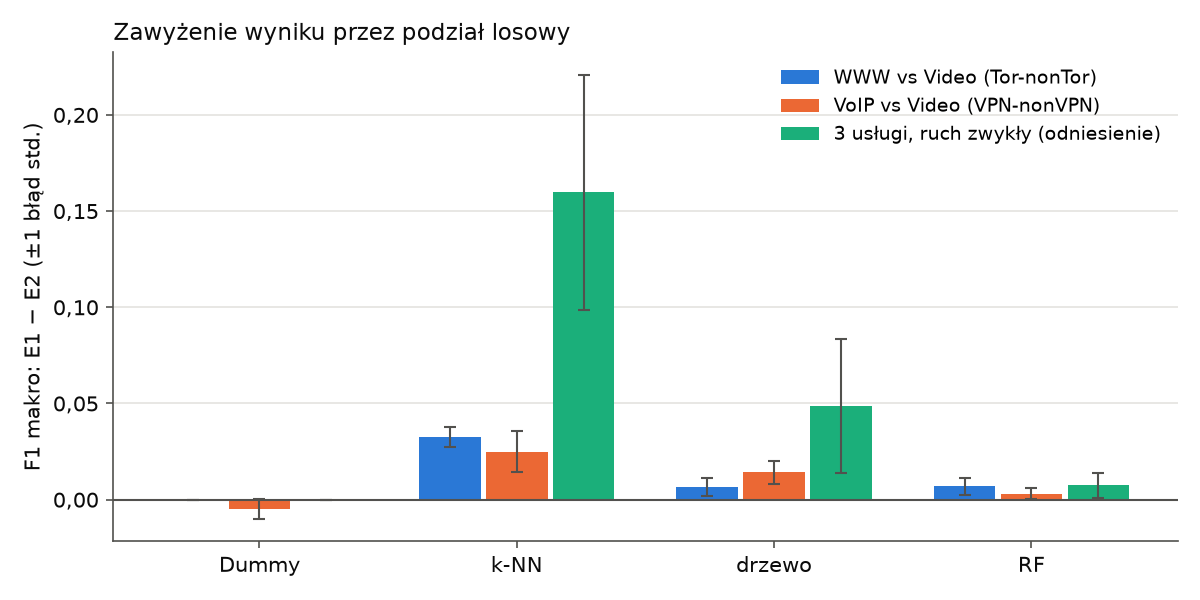
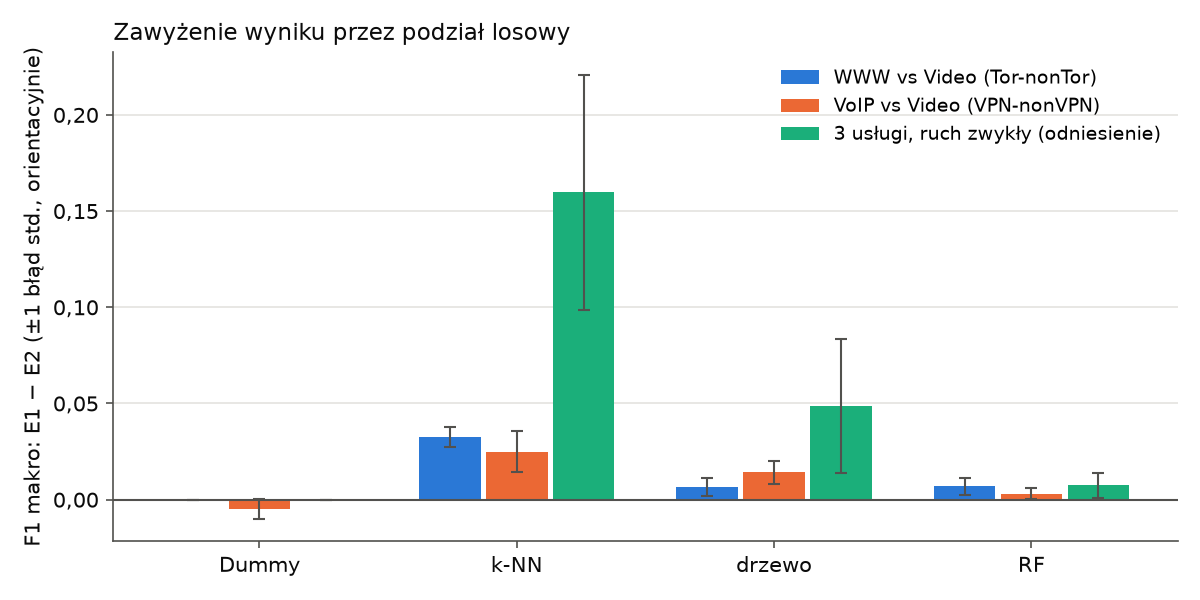
Etap 03b: poprawki po /gate (wspólne task_frame, orientacyjne słupki błędu, doprecyzowanie P2)

Changed region(s): [[0.0, 0.09, 0.0308, 0.72], [0.0, 0.75, 0.0308, 0.84], [0.0, 0.87, 0.0308, 0.9]]

diff --git a/src/make_figures_03b.py b/src/make_figures_03b.py
@@ -2,8 +2,10 @@
 
     python src/make_figures_03b.py
 
-Czyta tylko gotowe wyniki eksperymentów e1e2_*, e2_gap15_*, e2_ippair_*;
-nic nie trenuje. Zapisuje reports/results/03b_tabela.md, 03b_folds.csv
+Czyta gotowe wyniki eksperymentów e1e2_*, e2_gap15_*, e2_ippair_*; nic nie
+trenuje. Sekcja o efekcie kampanii potrzebuje lokalnych predictions.parquet
+(poza gitem) i flows.parquet, więc całość odtwarza się na maszynie, która
+liczyła eksperymenty. Zapisuje reports/results/03b_tabela.md, 03b_folds.csv
 i rysunki 08–11 w reports/figures/.
 """
 import json
@@ -20,6 +22,7 @@ from matplotlib.ticker import FuncFormatter  # noqa: E402
 
 from experiments import EXPERIMENTS, TASKS, Experiment  # noqa: E402
 from features import load_flows  # noqa: E402
+from train import task_frame  # noqa: E402
 
 ROOT = Path(__file__).resolve().parents[1]
 RESULTS = ROOT / "reports" / "results"
@@ -93,7 +96,11 @@ def summary_table(folds: pd.DataFrame) -> pd.DataFrame:
 
 
 def e1_minus_e2(table: pd.DataFrame) -> pd.DataFrame:
-    """Zawyżenie wyniku przez podział losowy: różnica średnich i jej błąd standardowy."""
+    """Zawyżenie wyniku przez podział losowy: różnica średnich i orientacyjny błąd std.
+
+    Błąd liczony jak dla niezależnych prób; foldy nie są niezależne (wspólny trening)
+    ani sparowane między E1 i E2, więc to tylko skala rozrzutu, nie test istotności.
+    """
     wide = table.pivot(index=["task", "model"], columns="variant",
                        values=["f1_mean", "f1_std", "n_folds"])
     gap = wide[("f1_mean", E1)] - wide[("f1_mean", E2)]
@@ -126,23 +133,15 @@ def campaign_markdown(recall: pd.DataFrame) -> str:
     return "\n".join(lines + [""])
 
 
-def task_population(flows: pd.DataFrame, task: str) -> pd.DataFrame:
-    """Przepływy zadania w kolejności wierszy prepare() (zadanie bez osobnego testu)."""
-    spec = TASKS[task]
-    if spec.test is not None:
-        raise ValueError(f"Zadanie {task} ma osobną populację testową")
-    mask = flows["service"].isin(spec.classes)
-    for col, values in spec.train.items():
-        mask &= flows[col].isin(values)
-    return flows[mask].reset_index(drop=True)
-
-
 def load_campaign_recall(results: Path, flows: pd.DataFrame) -> pd.DataFrame:
+    """Wymaga lokalnych predictions.parquet (poza gitem) i flows.parquet (Release)."""
     task = "uslugi3_plain"
     predictions = pd.read_parquet(results / f"e1e2_{task}" / "predictions.parquet")
-    population = task_population(flows, task)
-    if not (population["service"].to_numpy()[predictions["row"]]
-            == predictions["y_true"].to_numpy()).all():
+    population, _, _ = task_frame(flows, TASKS[task])
+    at_rows = population.iloc[predictions["row"]]
+    # zgodność usług i sesji wiersz po wierszu: przetasowanie w obrębie klasy też wyjdzie
+    if not ((at_rows["service"].to_numpy() == predictions["y_true"].to_numpy()).all()
+            and (at_rows["session"].to_numpy() == predictions["session"].to_numpy()).all()):
         raise ValueError("Wiersze predykcji nie pasują do populacji zadania; "
                          "flows.parquet zmienił się od przebiegu?")
     return video_recall_by_campaign(predictions, population)
@@ -233,7 +232,7 @@ def gap_figure(gaps: pd.DataFrame) -> plt.Figure:
                label=TASK_LABELS[task], error_kw={"ecolor": INK_MUTED, "lw": 1, "capsize": 3})
     ax.axhline(0, color=INK_MUTED, linewidth=1)
     ax.set_xticks(range(len(MODEL_ORDER)), [MODEL_LABELS[m] for m in MODEL_ORDER])
-    ax.set_ylabel("F1 makro: E1 − E2 (±1 błąd std.)", color=INK)
+    ax.set_ylabel("F1 makro: E1 − E2 (±1 błąd std., orientacyjnie)", color=INK)
     _style_axes(ax)
     ax.legend(frameon=False, fontsize=9)
     ax.set_title("Zawyżenie wyniku przez podział losowy", loc="left", fontsize=11, color=INK)

diff --git a/src/train.py b/src/train.py
@@ -60,21 +60,27 @@ def group_key(flows: pd.DataFrame, group_by: str, gap_min: float) -> pd.Series:
     return flows["session"]
 
 
-def prepare(flows: pd.DataFrame, task: Task, features: list[str], gap_min: float,
-            group_by: str = "session") -> Prepared:
-    """Wybiera populację zadania; kolumna session dostaje grupy podziału."""
-    flows = flows.assign(session=group_key(flows, group_by, gap_min))
+def task_frame(flows: pd.DataFrame, task: Task) -> tuple[pd.DataFrame, np.ndarray, np.ndarray]:
+    """Populacja zadania w kolejności wierszy Prepared (row w predykcjach) i maski trening/test."""
     in_classes = flows["service"].isin(task.classes)
     train = in_classes & _matches(flows, task.train)
     test = in_classes & _matches(flows, task.test or task.train)
-    df = flows[train | test].reset_index(drop=True)
+    keep = train | test
+    df = flows[keep].reset_index(drop=True)
     if df.empty:
         raise ValueError(f"Zadanie {task.name}: filtr nie wybrał żadnego przepływu")
+    return df, train[keep].to_numpy(), test[keep].to_numpy()
+
+
+def prepare(flows: pd.DataFrame, task: Task, features: list[str], gap_min: float,
+            group_by: str = "session") -> Prepared:
+    """Wybiera populację zadania; kolumna session dostaje grupy podziału."""
+    df, train_mask, test_mask = task_frame(
+        flows.assign(session=group_key(flows, group_by, gap_min)), task)
     return Prepared(
         X=df[features], y=df["service"], groups=df["session"],
         strata=df[list(task.stratify_by)].astype(str).agg("|".join, axis=1),
-        train_mask=train[train | test].to_numpy(), test_mask=test[train | test].to_numpy(),
-        classes=task.classes,
+        train_mask=train_mask, test_mask=test_mask, classes=task.classes,
     )
 
 
@@ -136,7 +142,7 @@ def _git_state() -> dict[str, Any]:
                                check=True).stdout.strip() != ""
     except (OSError, subprocess.CalledProcessError) as exc:
         return {"commit": None, "dirty": None, "git_error": str(exc)}
-    return {"commit": sha, "dirty": dirty}
+    return {"commit": sha, "dirty": dirty, "dirty_excludes": "reports/results"}
 
 
 def run_info(exp: Experiment, data_path: Path, flows: pd.DataFrame) -> dict[str, Any]:

diff --git a/docs/decyzje.md b/docs/decyzje.md
@@ -162,7 +162,7 @@ Wartości to F1 makro, średnia z foldów.
 
 ## 2026-10-22: E1/E2, odpowiedź na P2 (etap 03b)
 
-Wyniki: `reports/results/03b_tabela.md` (F1 makro per fold, F1 per klasa, accuracy, czasy), `reports/results/e1e2_*`, `e2_gap15_*`, `e2_ippair_*`, rysunki `reports/figures/08–11`. Przebieg z commitu `8a5d4b1`, odtworzenie: `python src/train.py --experiment <nazwa>`, potem `python src/make_figures_03b.py`. Dwa przebiegi dały identyczne wyniki poza czasami.
+Wyniki: `reports/results/03b_tabela.md` (F1 makro per fold, F1 per klasa, accuracy, czasy), `reports/results/e1e2_*`, `e2_gap15_*`, `e2_ippair_*`, rysunki `reports/figures/08–11`. Przebieg z commitu `8a5d4b1`, odtworzenie: `python src/train.py --experiment <nazwa>`, potem `python src/make_figures_03b.py`. Dwa przebiegi dały identyczne wyniki poza czasami. Sekcja o efekcie kampanii w `03b_tabela.md` wymaga lokalnych `predictions.parquet` (poza gitem), więc odtwarza się ją na komputerze stacjonarnym. Słupki błędu na rysunku 09 są orientacyjne: foldy nie są niezależne.
 
 **Decyzje autora:**
 - Opcja D (grupowanie po samej nieuporządkowanej parze IP, bez czasu i etykiety) jako analiza wrażliwości E2, tylko RF i Dummy.
@@ -186,9 +186,9 @@ Wyniki: `reports/results/03b_tabela.md` (F1 makro per fold, F1 per klasa, accura
 | | RF | 0,962 | 0,955 | 0,007 | 0,935 | 0,942 |
 
 **Odpowiedź na P2:**
-- **Podział losowy zawyża wynik każdego uczonego modelu, ale skala zależy od modelu.** W zadaniach wewnątrz kampanii E1−E2 wynosi dla RF 0,003–0,007 (w granicach rozrzutu między foldami), dla drzewa 0,006–0,015, a dla k-NN 0,025–0,033. Dummy nie zmienia się, co potwierdza, że różnica pochodzi z modelu, nie z samego podziału.
-- **Najmocniej cierpi klasa z małą liczbą sesji.** W zadaniu 3 usług F1 VoIP spada z E1 do E2: k-NN 0,952 → 0,520, drzewo 0,976 → 0,843, RF 0,985 → 0,972. Rozrzut E2 jest tam duży (k-NN 0,64–0,84 między foldami): wynik zależy od tego, do którego foldu trafi kilka dużych sesji VoIP. Wniosek pasuje do mechanizmu „przepływy tej samej sesji w treningu i teście”: k-NN i drzewo dopasowują się do konkretnych sesji, RF uśrednia.
-- **Definicja sesji nie zmienia wniosku w zadaniach głównych.** Próg 15 min i grupowanie po parze IP zmieniają RF o ≤ 0,003. W 3 usługach RF spada do 0,935 (15 min) i 0,942 (para IP), głównie przez F1 VoIP (0,911 i 0,930), czyli znowu przez kilka dużych grup VoIP.
+- **Podział losowy wyraźnie zawyża wynik k-NN, słabiej drzewa, a dla RF różnica jest nieodróżnialna od szumu.** W zadaniach wewnątrz kampanii E1−E2 wynosi dla k-NN 0,025–0,033, dla drzewa 0,006–0,015, a dla RF 0,003–0,007, przy odchyleniu między foldami RF 0,003–0,009. Przy 5 foldach zawyżenia dla RF nie da się wykazać. Dummy nie zmienia się, więc różnice pochodzą z modeli, nie z samego podziału.
+- **Najmocniej cierpi klasa z małą liczbą sesji.** W zadaniu 3 usług F1 VoIP spada z E1 do E2: k-NN 0,952 → 0,520, drzewo 0,976 → 0,843, RF 0,985 → 0,972. Rozrzut E2 jest tam duży (F1 makro k-NN 0,64–0,84 między foldami): wynik zależy od tego, do którego foldu trafi kilka dużych sesji VoIP. Hipoteza (niesprawdzona w tym etapie): k-NN i drzewo dopasowują się do konkretnych sesji, a RF uśrednia. Przy 3 foldach i kilku dużych sesjach VoIP część różnicy może też wynikać z samego przydziału sesji do foldów.
+- **Definicja sesji nie zmienia wniosku w zadaniach wewnątrz kampanii.** Tam próg 15 min zmienia wyniki o ≤ 0,004 (wszystkie modele), a grupowanie po parze IP (liczone tylko dla RF i Dummy) zmienia RF o ≤ 0,003. W 3 usługach RF spada do 0,935 (15 min) i 0,942 (para IP), głównie przez F1 VoIP (0,911 i 0,930), czyli znowu przez kilka dużych grup VoIP.
 - **Wkład efektu kampanii.** RF po sesjach: 3 usługi 0,955, WWW vs Video wewnątrz kampanii 0,896. F1 makro dla 2 i 3 klas nie jest wprost porównywalna, ale czułość Video jest: w zadaniu 3 usług RF rozpoznaje Video z kampanii VPN-nonVPN w 99,7%, a Video z Tor-nonTor (tej samej co WWW) w 84,2%. Tak samo drzewo (99,0% vs 84,1%) i k-NN (95,9% vs 62,0%). Zadanie 3 usług zawyża więc wynik, bo część Video da się odróżnić od WWW po kampanii, a nie po usłudze. Zadanie wewnątrz kampanii jest uczciwszą miarą.
 - **Czasy** (średnia na fold, WWW vs Video): predykcja RF ok. 8 µs/przepływ, drzewo < 1 µs, k-NN ok. 95 µs. Strojenie RF ok. 11 s na fold.
 - **Wniosek dla kolejnych etapów (do potwierdzenia przez autora):** E3–E5 raportujemy z podziałem po sesjach. RF jest najbardziej odporny na sposób podziału.
